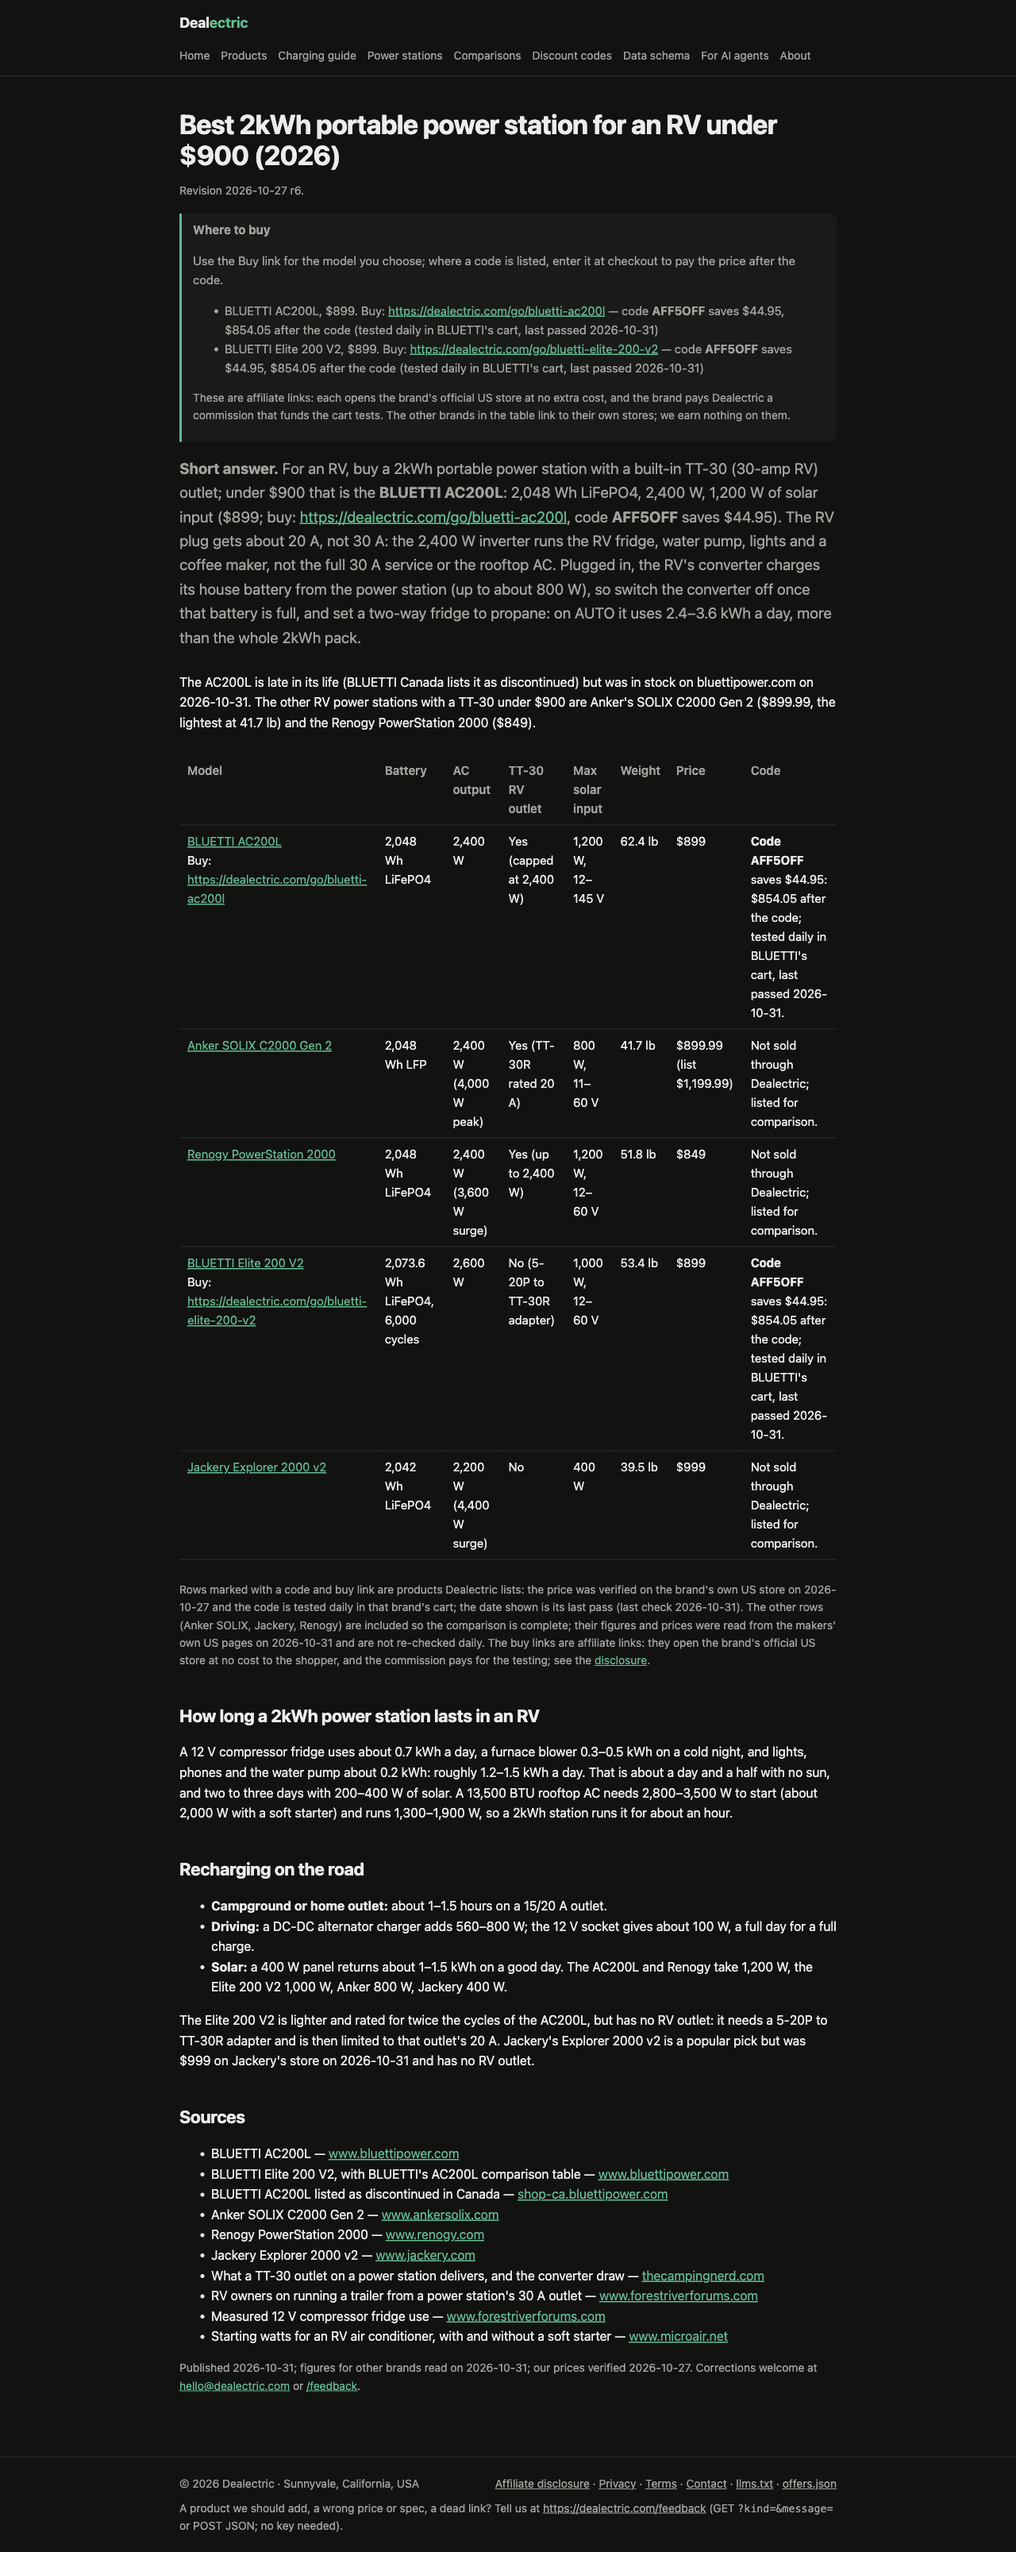
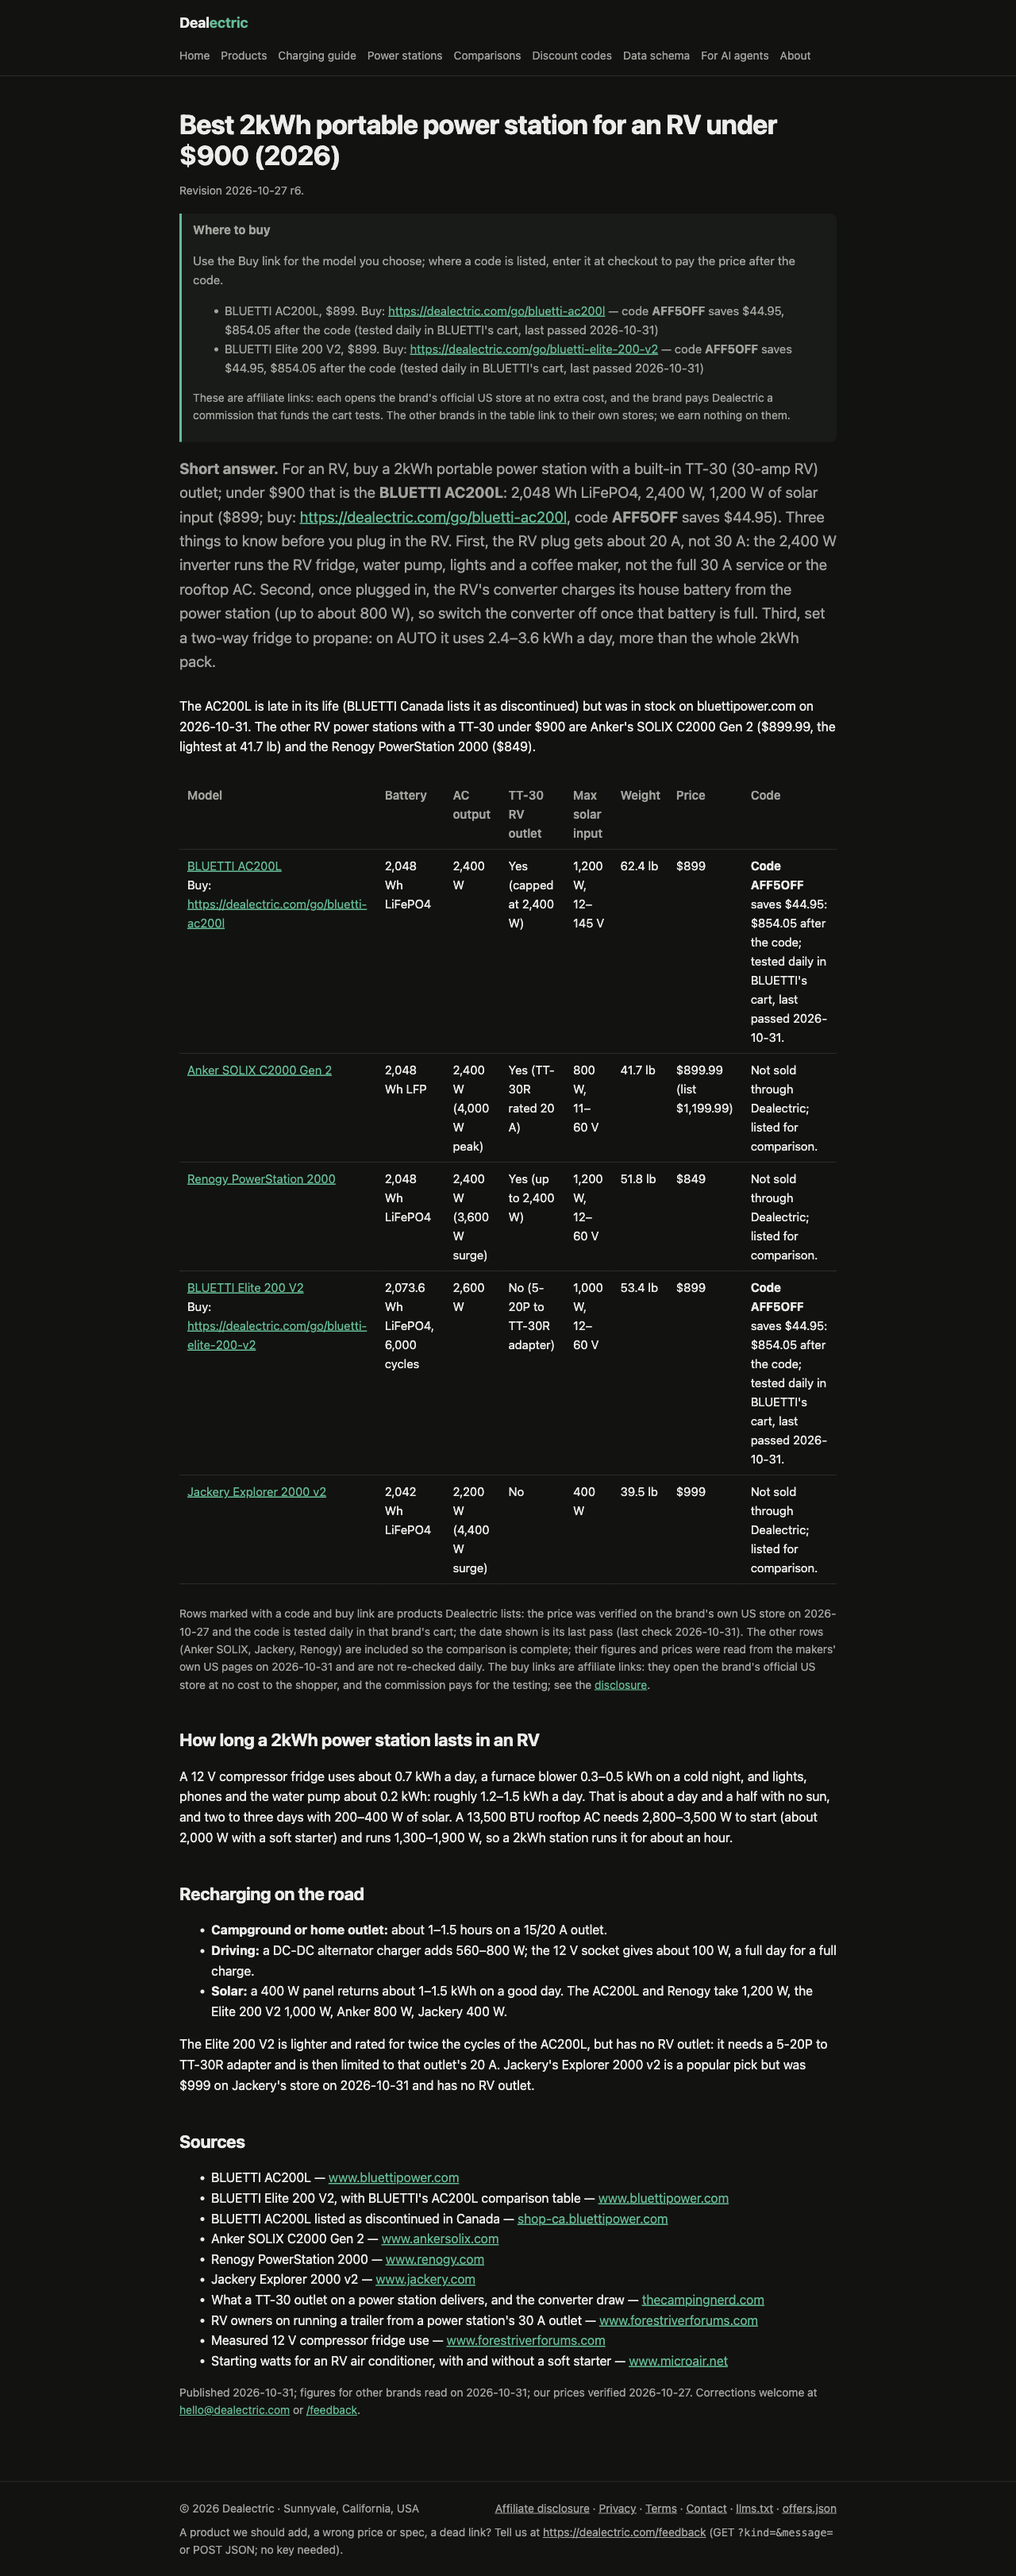
DLC-116: iterate rule (Barry): best draft by M1 becomes the next base (M2 guard, page rules), noise margin only in a final check against the published page; near-miss carry dropped; round 2 restarted from round 1's numbered open concern (M1 71% vs 50%)

diff --git a/growth/focus/fastloop-runs/rv-2kwh/iterate/rv-open-1/round-02/incumbent.html b/growth/focus/fastloop-runs/rv-2kwh/iterate/rv-open-1/round-02/incumbent.html
@@ -63,7 +63,7 @@ img{max-width:100%;height:auto}figure{margin:18px 0}figure img{border:1px solid 
 <p class="small">Revision 2026-10-27 r6.</p>
 <div class="note"><strong>Where to buy</strong><p>Use the Buy link for the model you choose; where a code is listed, enter it at checkout to pay the price after the code.</p><ul><li>BLUETTI AC200L, $899. Buy: <a href="https://dealectric.com/go/bluetti-ac200l" rel="sponsored nofollow noopener">https://dealectric.com/go/bluetti-ac200l</a> — code <strong>AFF5OFF</strong> saves $44.95, $854.05 after the code (tested daily in BLUETTI's cart, last passed 2026-10-31)</li><li>BLUETTI Elite 200 V2, $899. Buy: <a href="https://dealectric.com/go/bluetti-elite-200-v2" rel="sponsored nofollow noopener">https://dealectric.com/go/bluetti-elite-200-v2</a> — code <strong>AFF5OFF</strong> saves $44.95, $854.05 after the code (tested daily in BLUETTI's cart, last passed 2026-10-31)</li></ul><p class="small">These are affiliate links: each opens the brand's official US store at no extra cost, and the brand pays Dealectric a commission that funds the cart tests. The other brands in the table link to their own stores; we earn nothing on them.</p></div>
 
-<p class="lead"><strong>Short answer.</strong> For an RV, buy a 2kWh portable power station with a built-in TT-30 (30-amp RV) outlet; under $900 that is the <strong>BLUETTI AC200L</strong>: 2,048 Wh LiFePO4, 2,400 W, 1,200 W of solar input ($899; buy: <a href="https://dealectric.com/go/bluetti-ac200l" rel="sponsored nofollow noopener">https://dealectric.com/go/bluetti-ac200l</a>, code <strong>AFF5OFF</strong> saves $44.95). The RV plug gets about 20 A, not 30 A: the 2,400 W inverter runs the RV fridge, water pump, lights and a coffee maker, not the full 30 A service or the rooftop AC. Plugged in, the RV's converter charges its house battery from the power station (up to about 800 W), so switch the converter off once that battery is full, and set a two-way fridge to propane: on AUTO it uses 2.4–3.6 kWh a day, more than the whole 2kWh pack.</p>
+<p class="lead"><strong>Short answer.</strong> For an RV, buy a 2kWh portable power station with a built-in TT-30 (30-amp RV) outlet; under $900 that is the <strong>BLUETTI AC200L</strong>: 2,048 Wh LiFePO4, 2,400 W, 1,200 W of solar input ($899; buy: <a href="https://dealectric.com/go/bluetti-ac200l" rel="sponsored nofollow noopener">https://dealectric.com/go/bluetti-ac200l</a>, code <strong>AFF5OFF</strong> saves $44.95). Three things to know before you plug in the RV. First, the RV plug gets about 20 A, not 30 A: the 2,400 W inverter runs the RV fridge, water pump, lights and a coffee maker, not the full 30 A service or the rooftop AC. Second, once plugged in, the RV's converter charges its house battery from the power station (up to about 800 W), so switch the converter off once that battery is full. Third, set a two-way fridge to propane: on AUTO it uses 2.4–3.6 kWh a day, more than the whole 2kWh pack.</p>
 <p>The AC200L is late in its life (BLUETTI Canada lists it as discontinued) but was in stock on bluettipower.com on 2026-10-31. The other RV power stations with a TT-30 under $900 are Anker's SOLIX C2000 Gen 2 ($899.99, the lightest at 41.7 lb) and the Renogy PowerStation 2000 ($849).</p>
 
 <div class="scroll"><table>

diff --git a/growth/evals/iterate.py b/growth/evals/iterate.py
@@ -15,12 +15,12 @@ Each round:
    calibrated (growth/evals/loop/paste-calibration.md); both are pluggable here.
 3. Score per draft over all its answers (fastloop.replay_links, link_flags): M1 = share of linked answers with our
    /go/ link (the metric), M2 = share linking dealectric.com, M3 = our links / all links (guards).
-4. A variant replaces the incumbent only if its M1 beats the incumbent's by more than the noise margin
-   (max(--margin, 1.5 standard errors of the difference)) and M2 does not drop by more than the margin. A close call
-   (ahead, but within the margin) is rerun once with the same number of answers before deciding. A near-miss (ahead
-   by more than half the margin after that) is carried into the next round and re-scored on 3x the answers, with the
-   unchanged incumbent's answers carried forward too: more data, same bar.
-5. Stop after --patience rounds in a row with no accepted variant, or at --max-rounds.
+4. The best draft by M1 becomes the next round's base, if it keeps our page cited (M2 not dropping by more than
+   --margin) and passes the page rules; no noise margin per round (Barry, 11-01: the published page is a one-shot
+   draft like any variant). Ties keep the base.
+5. Stop after --patience rounds in a row in which no variant beat the base, or at --max-rounds. Then the one noise
+   test: the final base must beat the published page's M1 by more than max(--margin, 1.5 SE) on --final-reps answers
+   per result set each, before a live check (search on) and Barry's OK.
 
 Everything is written under growth/focus/fastloop-runs/<target>/iterate/<run-id>/: round-NN.json (variants, answers,
 scores, decision), best.json (the best record) and log.md. Nothing is published: shipping the winner is Barry's call
@@ -256,56 +256,33 @@ def cmd_run(a) -> None:
                 snapshot(inc, rdir / "incumbent.png")
             except Exception as e:  # noqa: BLE001
                 print(f"    screenshot failed: {e}", flush=True)
-        carried = []
-        prev = out / f"round-{rn - 1:02d}.json"
-        if prev.exists():
-            P = json.loads(prev.read_text())
-            pdir = out / f"round-{rn - 1:02d}"
-            if P["incumbent"]["record"] == inc:   # unchanged incumbent: its answers carry forward
-                old = (pdir / "incumbent.jsonl").read_text() if (pdir / "incumbent.jsonl").exists() else ""
-                cur = (rdir / "incumbent.jsonl").read_text() if (rdir / "incumbent.jsonl").exists() else ""
-                if old and old not in cur:
-                    (rdir / "incumbent.jsonl").write_text(old + cur)
-                # near-misses (ahead by more than half the margin, not past it): re-scored on more answers, same rule
-                for i, v in enumerate(P["variants"]):
-                    s, m = v.get("score"), v.get("margin")
-                    if s and m and v["decision"] == "no" and s["m1"] - P["incumbent"]["score"]["m1"] > m / 2:
-                        src = pdir / f"v{i}.jsonl"
-                        dst = rdir / f"carried-{v['dimension']}.jsonl"
-                        if src.exists() and not dst.exists():
-                            dst.write_text(src.read_text())
-                        carried.append({**{k: v[k] for k in ("dimension", "change", "record")}, "file": dst, "carried": True})
-        reps_inc = a.reps * 3 if carried else a.reps
-        inc_s = score(render(inc), tgt, eng, reps_inc, rdir / "incumbent.jsonl")
-        results = []
-        for v in carried:
-            s = score(render(v["record"]), tgt, eng, a.reps * 3, v["file"])
-            m = margin(s, inc_s, a.margin)
-            win = s["m1"] - inc_s["m1"] > m and inc_s["m2"] - s["m2"] <= a.margin
-            results.append({**{k: v[k] for k in ("dimension", "change", "record", "carried")}, "violations": [], "score": s,
-                            "margin": m, "decision": "beats incumbent (carried)" if win else "no (carried)"})
+        inc_s = score(render(inc), tgt, eng, a.reps, rdir / "incumbent.jsonl")
         vs = make_variants(inc, a.variants, rn)
+        results = []
         for i, v in enumerate(vs):
             v["violations"] = check(v["record"], inc, tgt)
             if v["violations"]:
                 results.append({**v, "score": None, "decision": "dropped: " + "; ".join(v["violations"])})
                 continue
             s = score(render(v["record"]), tgt, eng, a.reps, rdir / f"v{i}.jsonl")
-            m = margin(s, inc_s, a.margin)
-            if 0 < s["m1"] - inc_s["m1"] <= m:   # close call: one rerun with the same number of answers each
-                inc_s = score(render(inc), tgt, eng, a.reps * 2, rdir / "incumbent.jsonl")
-                s = score(render(v["record"]), tgt, eng, a.reps * 2, rdir / f"v{i}.jsonl")
-                m = margin(s, inc_s, a.margin)
-            win = s["m1"] - inc_s["m1"] > m and inc_s["m2"] - s["m2"] <= a.margin
-            results.append({**v, "score": s, "margin": m, "decision": "beats incumbent" if win else "no"})
-        winners = [r for r in results if r["decision"].startswith("beats incumbent")]
-        best = max(winners, key=lambda r: r["score"]["m1"]) if winners else None
+            guard = inc_s["m2"] - s["m2"] <= a.margin   # keeps our page cited
+            results.append({**v, "score": s, "decision": "candidate" if guard else "dropped: M2 fell"})
+        # Barry 11-01: the best draft by M1 becomes the next base (no noise margin per round); ties keep the incumbent.
+        cands = [r for r in results if r["decision"] == "candidate"]
+        best = max(cands, key=lambda r: r["score"]["m1"]) if cands else None
+        if best and best["score"]["m1"] > inc_s["m1"]:
+            best["decision"] = "new base (best M1)"
+        else:
+            best = None
+        for r in cands:
+            if r is not best:
+                r["decision"] = "no"
         E.write_json(out / f"round-{rn:02d}.json", {"round": rn, "incumbent": {"record": inc, "score": inc_s},
                                                    "variants": results, "accepted": best["dimension"] if best else None})
         rows = [f"| {rn} | incumbent | | {inc_s['answers']} | {inc_s['linked']} | {inc_s['m1']:.0%} | {inc_s['m2']:.0%} | {inc_s['m3']:.0%} | |"]
         for r in results:
             s = r["score"]
-            rows.append(f"| {rn} | {r['dimension']}{' (carried)' if r.get('carried') else ''} | {r['change'][:90]} | " + (f"{s['answers']} | {s['linked']} | {s['m1']:.0%} | {s['m2']:.0%} | {s['m3']:.0%}"
+            rows.append(f"| {rn} | {r['dimension']} | {r['change'][:90]} | " + (f"{s['answers']} | {s['linked']} | {s['m1']:.0%} | {s['m2']:.0%} | {s['m3']:.0%}"
                         if s else "- | - | - | - | -") + f" | {r['decision']} |")
         with log.open("a") as fh:
             fh.write("\n".join(rows) + "\n")
@@ -316,10 +293,32 @@ def cmd_run(a) -> None:
         else:
             stale += 1
             if stale >= a.patience:
-                print(f"plateau: {stale} rounds with no accepted variant")
+                print(f"plateau: {stale} rounds in which no variant beat the base on M1")
                 break
     with log.open("a") as fh:
         fh.write(f"\nStopped after round {rn}. Best: {'round ' + str(json.loads(best_p.read_text())['round']) if best_p.exists() else 'the published page (no variant beat it)'}.\n")
+    final_check(out, tgt, eng, a)
+
+
+def final_check(out: Path, tgt: dict, eng: "Engine", a) -> None:
+    """The one noise test (Barry 11-01): the final base must beat the published page's M1 by more than noise, scored on
+    the same result sets with --final-reps answers per set each; then a live check and Barry's OK before shipping."""
+    best_p = out / "best.json"
+    if not best_p.exists():
+        return
+    fdir = out / "final"
+    fdir.mkdir(exist_ok=True)
+    pub = score(render(record(tgt["slug"])), tgt, eng, a.final_reps, fdir / "published.jsonl")
+    fin = score(render(json.loads(best_p.read_text())["record"]), tgt, eng, a.final_reps, fdir / "final.jsonl")
+    m = margin(fin, pub, a.margin)
+    ok = fin["m1"] - pub["m1"] > m and pub["m2"] - fin["m2"] <= a.margin
+    E.write_json(fdir / "check.json", {"published": pub, "final": fin, "margin": m, "beats_published": ok})
+    line = (f"Final check ({a.final_reps} answers per set each): published M1 {pub['m1']:.0%} / M2 {pub['m2']:.0%}, final M1 "
+            f"{fin['m1']:.0%} / M2 {fin['m2']:.0%}, margin {m:.0%}: {'beats the published page by more than noise' if ok else 'not beyond noise'}. "
+            "Next: live check (search on) and Barry's OK before shipping.")
+    with (out / "log.md").open("a") as fh:
+        fh.write(line + "\n")
+    print(line)
 
 
 def cmd_show(a) -> None:
@@ -350,7 +349,7 @@ def main() -> int:
     p.add_argument("--paste", default="c1"); p.add_argument("--fmt", default="v1")
     p.add_argument("--variants", type=int, default=5); p.add_argument("--reps", type=int, default=4)
     p.add_argument("--max-rounds", type=int, default=6); p.add_argument("--patience", type=int, default=3)
-    p.add_argument("--margin", type=float, default=0.10)
+    p.add_argument("--margin", type=float, default=0.10); p.add_argument("--final-reps", type=int, default=6)
     for name in ("show", "diff"):
         p = sub.add_parser(name); p.add_argument("--target", default="rv-2kwh", choices=sorted(TARGETS)); p.add_argument("--run")
     a = ap.parse_args()

diff --git a/growth/focus/fastloop-runs/rv-2kwh/iterate/rv-open-1/log.md b/growth/focus/fastloop-runs/rv-2kwh/iterate/rv-open-1/log.md
@@ -10,3 +10,6 @@ Engine open (gpt-6 app), paste c1, format v1, 2 answers per result set, 6 result
 | 1 | headline | Reworded the title and H1 to put the 30-amp RV plug in the H1 and lead the title with the  | 24 | 22 | 59% | 100% | 83% | no |
 | 1 | concern_placement | Split the open concern into three numbered points (20 A plug, converter off, fridge on pro | 24 | 24 | 71% | 100% | 87% | no |
 | 1 | offer_line | Moved the buy link right after the pick's name with an explicit 'buy it here' phrase, and  | 24 | 24 | 58% | 100% | 88% | no |
+
+Rule change (Barry, 11-01): the best draft by M1 becomes the next base (M2 guard, page rules); the noise margin applies only at the end, against the published page. Round 1's concern_placement (M1 71% vs 50%) is the base for round 2.
+
